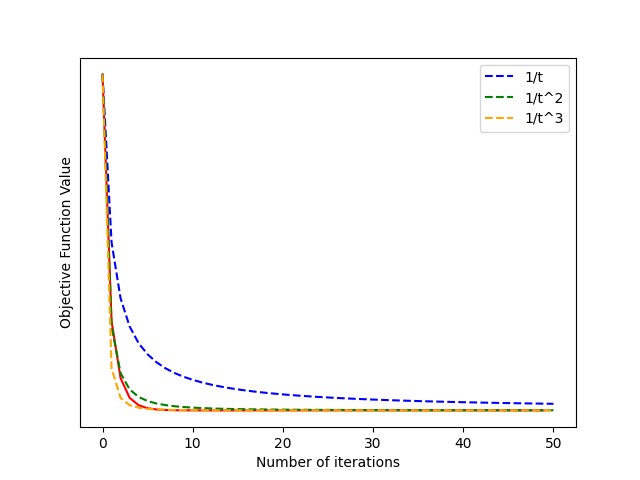
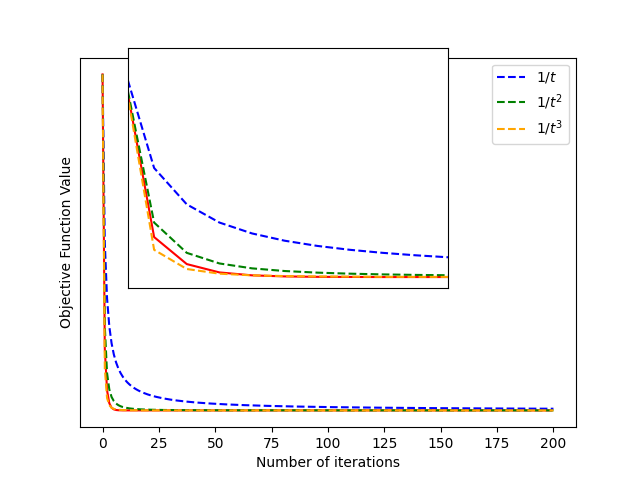
final commit

diff --git a/test.py b/test.py
@@ -3,19 +3,22 @@
 import tatonnement as t
 import numpy as np
 import matplotlib.pyplot as plt
+from mpl_toolkits.axes_grid1.inset_locator import mark_inset
+
 np.set_printoptions(precision=3)
 
 
 
 if __name__ == '__main__':
     # Declare number of goods, consumers and elasticity of substitution (rho)
-    num_goods = 5
-    num_buyers = 10
-    num_iters = 50
-    learning_rate = 2.9
-    num_experiments = 10000
-    obj_hist_avg = np.zeros(num_iters)    
+    num_goods = 30
+    num_buyers = 70
+    num_iters = 200
+    learning_rate = 2.7
+    num_experiments = 1
     
+    
+    obj_hist_avg = np.zeros(num_iters)    
     for experiment in range(num_experiments):
         print(f"Experiment {experiment}")
         budgets = np.random.rand(num_buyers) + 2
@@ -44,15 +47,25 @@ if __name__ == '__main__':
 
     x = np.linspace(1, len(obj_hist_avg) +1, len(obj_hist_avg) + 1)
     plt.plot(list(range(len(obj_hist_avg))), obj_hist_avg, color = "red")
-    plt.plot(x-1, (obj_hist_avg[0] - obj_hist_avg[-1])*(x**(-1)) + obj_hist_avg[-1], color='blue', linestyle='dashed', label = "1/t")
-    plt.plot(x-1, (obj_hist_avg[0] - obj_hist_avg[-1])*(x**(-2)) + obj_hist_avg[-1], color='green', linestyle='dashed', label = "1/t^2")
-    plt.plot(x-1, (obj_hist_avg[0] - obj_hist_avg[-1])*(x**(-3)) + obj_hist_avg[-1], color='orange', linestyle='dashed', label = "1/t^3")
+    plt.plot(x-1, (obj_hist_avg[0] - obj_hist_avg[-1])*(x**(-1)) + obj_hist_avg[-1], color='blue', linestyle='dashed', label = r"$1/t$")
+    plt.plot(x-1, (obj_hist_avg[0] - obj_hist_avg[-1])*(x**(-2)) + obj_hist_avg[-1], color='green', linestyle='dashed', label = r"$1/t^{2}$")
+    plt.plot(x-1, (obj_hist_avg[0] - obj_hist_avg[-1])*(x**(-3)) + obj_hist_avg[-1], color='orange', linestyle='dashed', label = r"$1/t^{3}$")
     plt.xlabel("Number of iterations")
     plt.yticks([], [])
     plt.ylabel("Objective Function Value")
     plt.legend()
+
+    plt.axes([0.2, 0.4, 0.5, 0.5])
+    plt.plot(list(range(len(obj_hist_avg))), obj_hist_avg, color = "red")
+    plt.plot((x-1), ((obj_hist_avg[0] - obj_hist_avg[-1])*(x**(-1)) + obj_hist_avg[-1]), color='blue', linestyle='dashed', label = r"$1/t$")
+    plt.plot((x-1), ((obj_hist_avg[0] - obj_hist_avg[-1])*(x**(-2)) + obj_hist_avg[-1]), color='green', linestyle='dashed', label = r"$1/t^{2}$")
+    plt.plot((x-1), ((obj_hist_avg[0] - obj_hist_avg[-1])*(x**(-3)) + obj_hist_avg[-1]), color='orange', linestyle='dashed', label = r"$1/t^{3}$")
+    plt.xlim(0.2, 10)
+    plt.xticks([])
+    plt.yticks([])
     plt.savefig("./graphs/obj_change.png")
     plt.show()
+    
 
     obj_hist_avg = np.zeros(num_iters)    
     num_not_conv = 0
@@ -88,10 +101,11 @@ if __name__ == '__main__':
 
     x = np.linspace(1, len(obj_hist_avg) +1, len(obj_hist_avg) + 1)
     plt.plot(list(range(len(obj_hist_avg))), obj_hist_avg, color = "red")
-    plt.plot(x-1, (obj_hist_avg[0] - obj_hist_avg[-1])*(x**(-1)) + obj_hist_avg[-1], color='blue', linestyle='dashed', label = "1/t")
-    plt.plot(x-1, (obj_hist_avg[0] - obj_hist_avg[-1])*(x**(-2)) + obj_hist_avg[-1], color='green', linestyle='dashed', label = "1/t^2")
-    plt.plot(x-1, (obj_hist_avg[0] - obj_hist_avg[-1])*(x**(-3)) + obj_hist_avg[-1], color='orange', linestyle='dashed', label = "1/t^3")
+    plt.plot(x-1, (obj_hist_avg[0] - obj_hist_avg[-1])*(x**(-1)) + obj_hist_avg[-1], color='blue', linestyle='dashed', label = r"$1/t$")
+    plt.plot(x-1, (obj_hist_avg[0] - obj_hist_avg[-1])*(x**(-2)) + obj_hist_avg[-1], color='green', linestyle='dashed', label = r"$1/t^{2}$")
+    plt.plot(x-1, (obj_hist_avg[0] - obj_hist_avg[-1])*(x**(-3)) + obj_hist_avg[-1], color='orange', linestyle='dashed', label = r"$1/t^{3}$")
     plt.xlabel("Number of iterations")
+    plt.xlim(left = 0)
     plt.yticks([], [])
     plt.ylabel("Objective Function Value")
     plt.legend()
